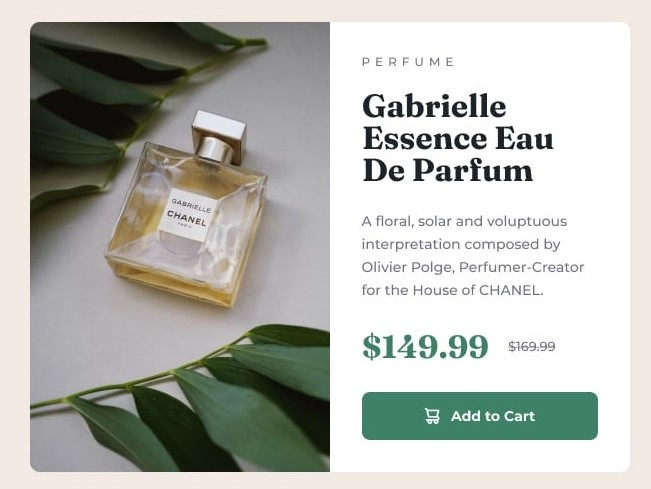
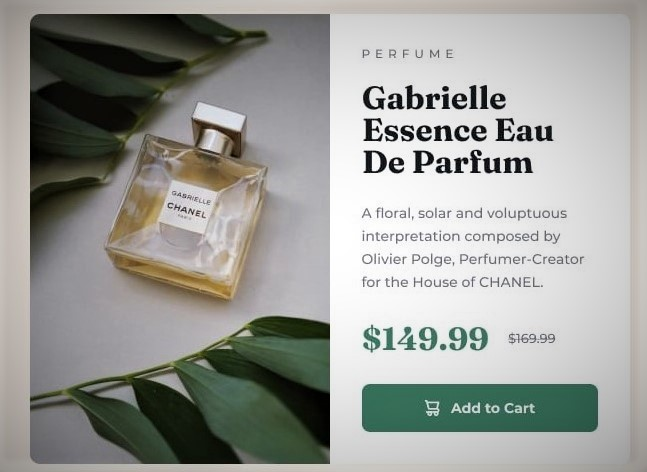
melhoria portfolio imagens

diff --git a/style.css b/style.css
@@ -214,8 +214,10 @@ nav ul a svg{
 }
 
 .portfolio img{
+
     width: 100%;
     border-radius: 16PX ;
+    
 }
 
 
@@ -239,6 +241,8 @@ nav ul a svg{
 .portfolio .portfolio-container .portfolio-card .img-container{
     margin: 0 25px 50px;
     position: relative;
+    max-height: 255px;
+    max-width: 296px;
 }
 
 .portfolio .portfolio-container .portfolio-card .img-container .line{

diff --git a/index.html b/index.html
@@ -103,7 +103,7 @@
               <li>c#</li>
             </ul>
           </div>
-          <p><b>GitHub</b></p>
+          <p><b>Azure</b></p>
           <p>
             Aplicação web feita para o setor de vendas e adm na Plaenge Empreendimentos, utilizando framework Bootstrap,
             com HTML, CSS e JS (Ajax e jQUERY).
